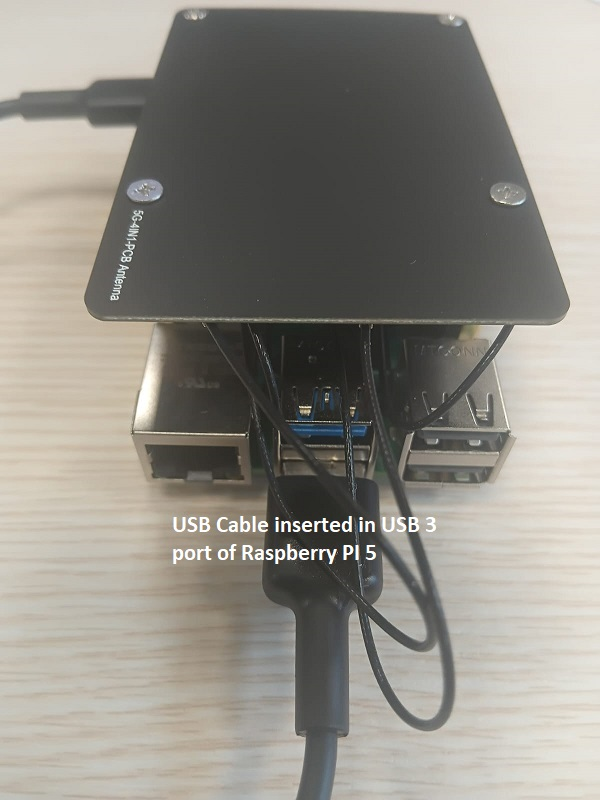
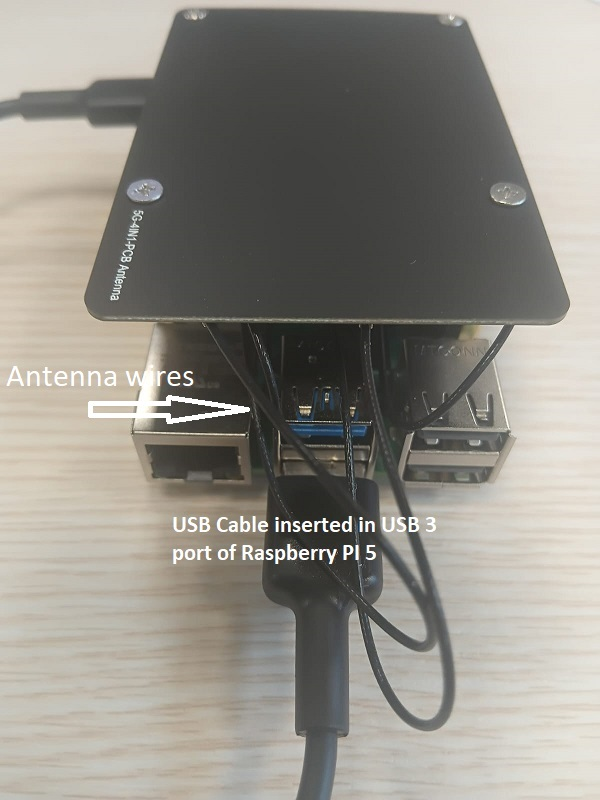
quectel hardware setup added

Changed region(s): [[0.0, 0.4375, 0.42, 0.5312]]

diff --git a/docs/embsys-drobot/Quectel-RM530N-GL/hw-setup-pi5.md b/docs/embsys-drobot/Quectel-RM530N-GL/hw-setup-pi5.md
@@ -5,15 +5,78 @@ tags:
   - raspberry pi
 ---
 
-Under Construction
-
 # Hardware setup & connections
 This section explains how to connect the RM530N-GL module to a Raspberry Pi board, covering the necessary hardware wiring and interface details.
 
+## 1. Three hardware modules
+The hardware setup described here is made up of three modules integrated into a single system
 
+| Component | Image(click to enlarge) | Description |
+|:--|:--:|:--|
+| 5G RM530N-GL | <a href="images/component-1-RM530.png" target="_blank"><img src="images/component-1-RM530.png" width="100" height="100"/></a> | A Sub-6GHz & mmWave 5G module |
+| RM530N-GL 5G HAT+| <a href="images/component-2-Hat.jpg" target="_blank"><img src="images/component-2-Hat.jpg" width="100" height="100"/></a> | RM530N-GL Cap  to 5G HAT+ |
+| RPi-5 | <a href="images/component-3-Pi5-with-hat-mounted.jpg" target="_blank"><img src="images/component-3-Pi5-with-hat-mounted.jpg" width="100" height="100"/></a> | Raspberry Pi 5 on which cap is mounted |
+
+Description:
+
+1. **5G RM530N-GL:**
+A 5G modem responsible for mobile network communication. However, it requires additional components to function properly, including a SIM card and antennas.
+
+2. **RM530N-GL 5G HAT+:**
+This HAT acts as a bridge between the modem and the target computer (e.g. Raspberry Pi 5). It provides the necessary interfaces for both sides: a SIM slot and other supports for the modem, and USB/PCIe interfaces to connect with the target computer.
+
+3. **Target Computer (e.g. Raspberry Pi 5):**
+The main computing unit where the HAT is mounted. Once connected, the system becomes a complete, functional solution for 5G communication.
+
+In short:
+**"Modem is mounted on the HAT, and the Hat is mounted on RPi-5"**
+
+
+## 2. Additional modules 
+
+Antenna and SIM cards are two important additional units that must be connected to the assembled board. The antenna enables wireless communication, while the SIM card provides access to a mobile network.
+
+- **Antenna:**
+An essential hardware component for enabling wireless communication. The antenna, along with its connecting cables, must be attached directly to the modem to ensure proper signal reception and transmission.
+
+- **SIM Card:**
+Required to connect to a mobile network. The SIM card is inserted into the slot provided on the HAT, allowing the system to authenticate with a telecommunications operator.
+
+### Pictures of antenna and sim-card slot
+Click to enlarge
+
+| Antenna and Wires | SIM-card slot | 
+|:--|:--:|
+| <a href="images/antenna-and-wires.jpg" target="_blank"><img src="images/antenna-and-wires.jpg" width="100" height="100"/></a> | <a href="images/SIM-slot.jpg" target="_blank"><img src="images/SIM-slot.jpg" width="100" height="100"/></a> | 
+
+## 3. Assembling the hardware
+
+Reference: [Waveshre-RM50N-GL_5G_Hat+](https://www.waveshare.com/wiki/RM530N-GL_5G_HAT+#RM5xx_Series_Module){:target="_blank"}
+
+Follow the instructions provided in the link above to complete the hardware assembly.
+
+- ❌ Note: This project does not use the PCIe connection to interface the HAT with the Raspberry Pi 5.
+- ✅ Instead, the USB interface is used to connect the HAT to the Raspberry Pi 5.
+
+Click to enlarge:
+
+| ❌PCIe Connection (NOT used in this project) | ✅ USB Connection (used in this project) | 
+|:--|:--:|
+| <a href="images/PCIe_TO_5G_HAT+_Hard22.png" target="_blank"><img src="images/PCIe_TO_5G_HAT+_Hard22.png" width="100" height="100"/></a> | <a href="images/usb-modem-and-sim.jpeg" target="_blank"><img src="images/usb-modem-and-sim.jpeg" width="100" height="100"/></a> | 
+
+
+## 4. Final assembled board
+
+Below are some images of the fully assembled product, ready for use:
+
+| Piture type | Image(click to enlarge) | Description |
+|:--|:--:|:--|
+| USB on Pi-5 | <a href="images/usb-pi.jpeg" target="_blank"><img src="images/usb-pi.jpeg" width="100" height="100"/></a> | Shows the USB ports on the Raspberry Pi 5. |
+| SIM and USB on Cap | <a href="images/usb-modem-and-sim.jpeg" target="_blank"><img src="images/usb-modem-and-sim.jpeg" width="100" height="100"/></a> | Shows the SIM card slot and USB modem on the cap. |
+| Cap Mounting on PI-5 | <a href="images/side-view-cap.jpeg" target="_blank"><img src="images/side-view-cap.jpeg" width="100" height="100"/></a> | Shows how the cap is mounted onto the Raspberry Pi 5. |
 
 ---
-## Some useful links
+## 5. Some useful links
 
 [Waveshre-RM50N-GL_5G_Hat+](https://www.waveshare.com/wiki/RM530N-GL_5G_HAT+#RM5xx_Series_Module){:target="_blank"}
 

diff --git a/docs/embsys-drobot/Quectel-RM530N-GL/sw-setup-pi5.md b/docs/embsys-drobot/Quectel-RM530N-GL/sw-setup-pi5.md
@@ -23,12 +23,15 @@ Before we start working on the software, we need to make sure that hardware moun
 - Antenna is mounted on the cap and wires are connected properly.
 
 
-### Pictures
+### Connection pictures
 (Click to enlarge)
 
-| USB on Pi-5 | SIM and USB on Cap | Cap Mounting on PI-5|
-|:--:|:--:|:--:|
-| <a href="images/usb-pi.jpeg" target="_blank"><img src="images/usb-pi.jpeg" width="100" height="100"/></a> | <a href="images/usb-modem-and-sim.jpeg" target="_blank"><img src="images/usb-modem-and-sim.jpeg" width="100" height="100"/></a> | <a href="images/side-view-cap.jpeg" target="_blank"><img src="images/side-view-cap.jpeg" width="100" height="100"/></a> |
+| Piture type | Image(click to enlarge) | Description |
+|:--|:--:|:--|
+| USB on Pi-5 | <a href="images/usb-pi.jpeg" target="_blank"><img src="images/usb-pi.jpeg" width="100" height="100"/></a> | Shows the USB ports on the Raspberry Pi 5. |
+| SIM and USB on Cap | <a href="images/usb-modem-and-sim.jpeg" target="_blank"><img src="images/usb-modem-and-sim.jpeg" width="100" height="100"/></a> | Shows the SIM card slot and USB modem on the cap. |
+| Cap Mounting on PI-5 | <a href="images/side-view-cap.jpeg" target="_blank"><img src="images/side-view-cap.jpeg" width="100" height="100"/></a> | Shows how the cap is mounted onto the Raspberry Pi 5. |
+
 
 For detailed connection information, see the [hardware setup](hw-setup-pi5.md)
 
@@ -114,7 +117,7 @@ type any one of the following:
 ``` consolde
 sudo minicom -D /dev/ttyUSB2 -b 115200
 ```
-Or connect without mentioning the baudrate (minicom uses 115200 as default baudrate)
+Or connect without mentioning the baudrate (minicom uses 115200 as default)
 ```
 sudo minicom -D /dev/ttyUSB2 
 ```
